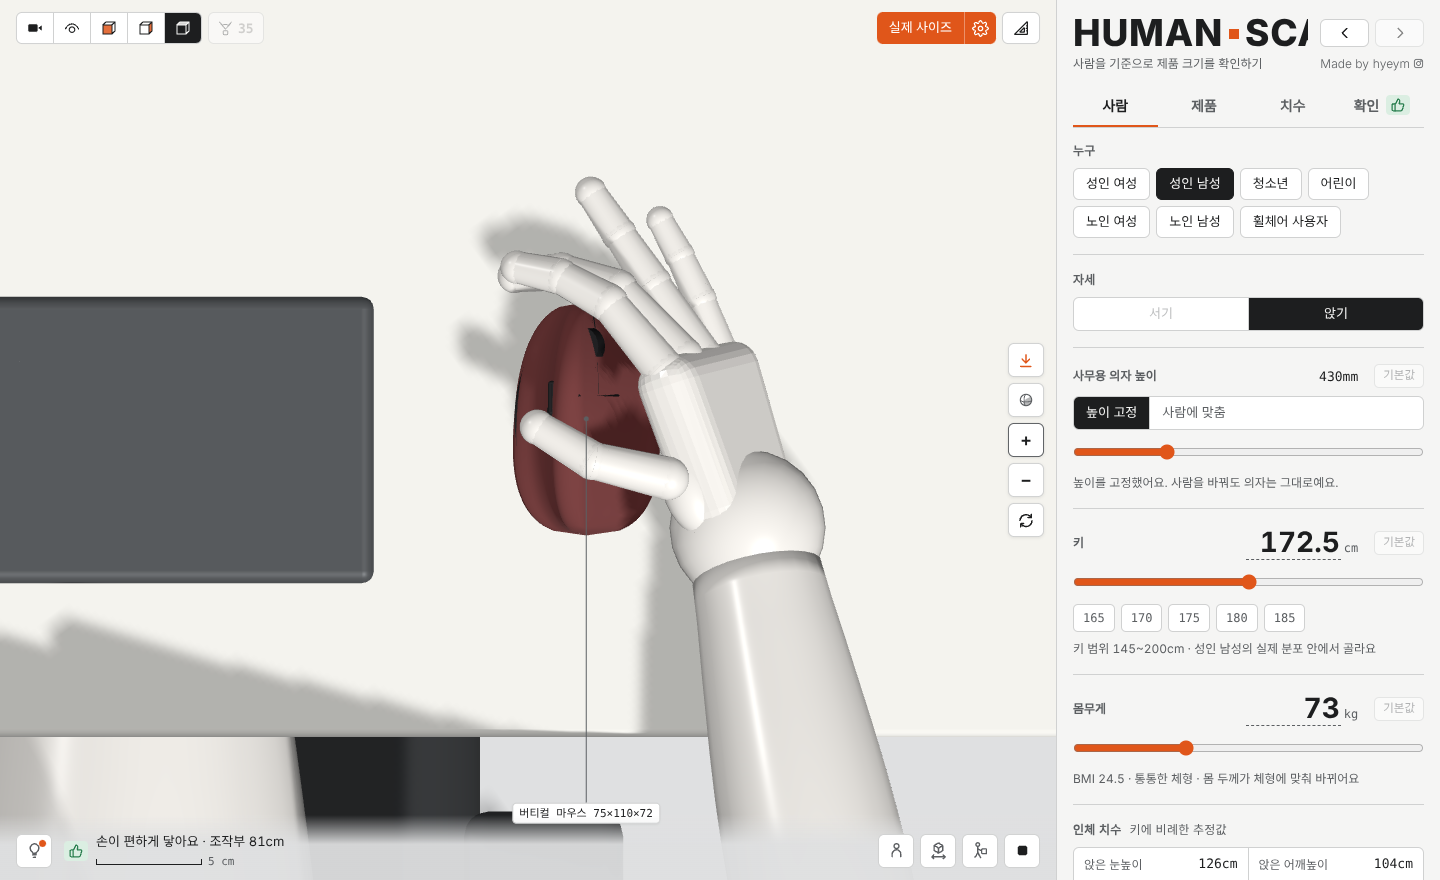
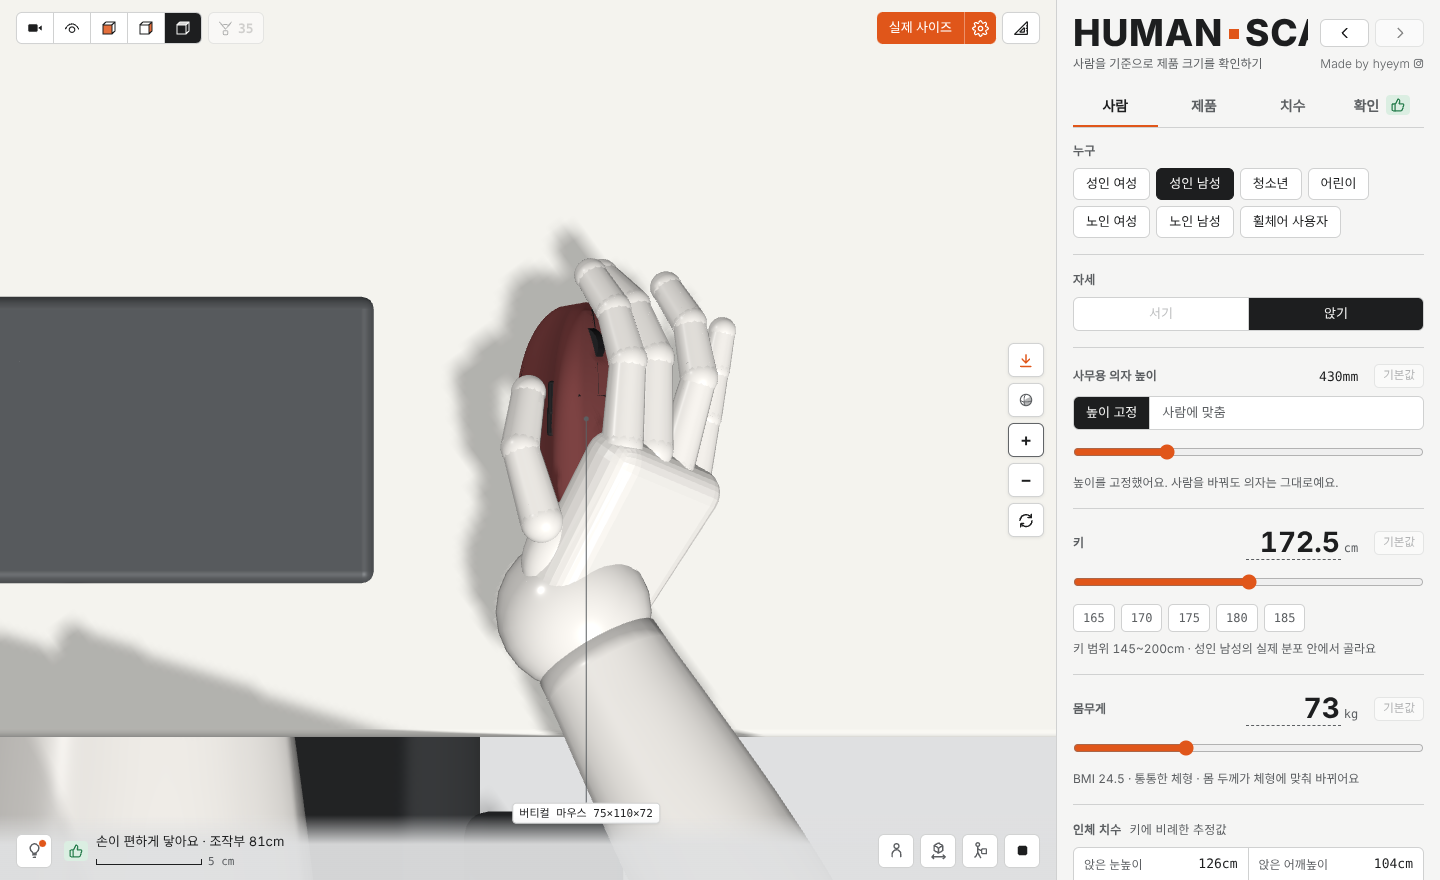
Vertical mouse: the wrist straight behind its ridge, the hand slid on from behind with the mouse in the web
Claude-Session: https://claude.ai/code/session_01HYNQ1d4u3j94KdSMHWKsoz

Changed region(s): [[0.0312, 0.1841, 0.625, 0.9511]]

diff --git a/index.html b/index.html
@@ -4178,7 +4178,7 @@ function vMouseGeo(group, W, D, H, own, dark) {
   for (let k = 0; k < 8; k++) { const t0 = -0.93 + k * 0.09, t1 = t0 + 0.09; if (t1 < tw - 0.06 || t0 > tw + 0.06) seam(sp(0.3, t0), sp(0.3, t1)); } // between the two buttons (broken by the wheel)
   for (let k = 0; k < 6; k++) seam(sp(k / 6 * 0.62, -0.2), sp((k + 1) / 6 * 0.62, -0.2)); // the buttons' back edge, across the face
   for (const [t, l] of [[-0.18, 0.016], [0.02, 0.014]]) { const c = at(-0.235, 0.8, t); own(new RoundedBoxGeometry(0.004, 0.008, l, 2, 0.0015).rotateZ(0.2).translate(c.x, c.y, c.z), dark); } // two thumb buttons high on the left, by the ridge
-  group.userData.vgrip = { n: nrm(-0.4), index: onFace(-0.05, -0.72), knuck: onFace(0.4, -0.4), left: new V3(-1, 0, 0), thumb: at(-0.3, 0.45, -0.35) }; // the hand's marks: the index on the upper button toward the front, the thumb in the hollow on the left
+  group.userData.vgrip = { n: nrm(-0.4), index: onFace(-0.05, -0.72), knuck: onFace(0.45, -0.32), left: new V3(-1, 0, 0), thumb: at(-0.3, 0.45, -0.35) }; // the hand's marks: the index on the upper button toward the front, the thumb in the hollow on the left
   part();
 }
 function mouseGeo(group, W, D, H) {
@@ -5875,13 +5875,17 @@ function mouseGrip(HD) {
   for (const [y, z] of [[0.2, -0.3], [0.3, -0.3], [0.4, -0.3], [0.3, -0.2], [0.3, -0.4]]) palm.push(new V3(0.66 * HD.palmT, y * HD.palmLen, z * HD.palmW)); // the pad at the thumb's root stands proud of the palm
   let F, W, at, best = null;
   const vg = holder.userData.vgrip, toHd = (v) => human.worldToLocal(holder.localToWorld(v.clone())).sub(human.worldToLocal(holder.localToWorld(new V3()))).normalize();
-  if (vg) { /* a vertical mouse, the hand fitted over it: its ridge in the web between the thumb and index finger, the hand rolled partway to the
-     right (the palm over the ridge and down its grip face), the wrist down on the desk behind it */
-    const wy = deskY + jointSizes(limbProfiles(S.A, PERSONAS[S.persona])).wr + 0.002, g0 = HD.fingers[0], lf = toHd(vg.left), nO = toHd(vg.n), ks = human.worldToLocal(holder.localToWorld(vg.knuck.clone())), roll = deg(62), fw = fwd.clone().multiplyScalar(Math.cos(deg(18))).addScaledVector(toHd(vg.left), Math.sin(deg(18)));
-    const kn = new V3(0.5 * HD.palmT, HD.palmLen, g0.z), fit = (h) => { const K = ks.clone().addScaledVector(nO, h); let W1, F1, p0 = -0.3, p1 = 1.2; // pointing straight ahead, pitched up from the wrist on the desk to the knuckles on its ridge
-      for (let k = 0; k < 24; k++) { const p = (p0 + p1) / 2, yd = fw.clone().multiplyScalar(Math.cos(p)).addScaledVector(UP, Math.sin(p)), dn = new V3(0, -1, 0).addScaledVector(yd, yd.y).normalize(), l = lf.clone().addScaledVector(yd, -lf.dot(yd)).normalize(); F1 = handFrame(dn.multiplyScalar(Math.cos(roll)).addScaledVector(l, Math.sin(roll)).normalize(), yd); W1 = K.clone().sub(inHand(F1, kn)); if (W1.y > wy) p0 = p; else p1 = p; }
-      const a = (W) => (x, y, z) => sdfW(W.clone().add(inHand(F1, new V3(x, y, z)))); return { F: F1, W: W1, at: a, m: palm.reduce((m, q) => { const w = W1.clone().add(inHand(F1, q)); return w.y < deskY + 0.006 ? m : Math.min(m, a(W1)(q.x, q.y, q.z)); }, HD.fingers.reduce((m, g) => Math.min(m, a(W1)(0, g.y + 0.35 * g.L[0], g.z) - g.r[0] + 0.0015), 1e9)) }; }; // the fingers' roots kept off it too, so they can curl round it // the heel of the hand may lie on the desk
-    let lo = -0.01, hi = 0.05, r = fit(hi); for (let k = 0; k < 16; k++) { const h = (lo + hi) / 2, c = fit(h); if (c.m < 0.0015) lo = h; else { hi = h; r = c; } } // as close down on it as the palm comes without going in
+  if (vg) { /* a vertical mouse, the hand fitted round it from behind: the wrist on the desk straight behind its ridge (the forearm, wrist and
+     ridge in one line seen from above), the hand rolled partway to the right, so the ridge sits in the web between the thumb and the index
+     finger, the palm round its grip face and the thumb down its left */
+    const wy = deskY + jointSizes(limbProfiles(S.A, PERSONAS[S.persona])).wr + 0.002, lf = toHd(vg.left), roll = deg(50), fw = fwd, hp0 = human.worldToLocal(holder.localToWorld(holder.userData.hump.clone()));
+    const lat = new V3().crossVectors(UP, fw).normalize(), base = hp0.clone().addScaledVector(fw, -fw.dot(hp0.clone().sub(ctr)) - 0.5 * len - 0.12); base.y = wy;
+    const frame = (p, ps) => { const fy = fw.clone().multiplyScalar(Math.cos(ps)).addScaledVector(lat, -Math.sign(lat.dot(lf)) * Math.sin(ps)), yd = fy.multiplyScalar(Math.cos(p)).addScaledVector(UP, Math.sin(p)), dn = new V3(0, -1, 0).addScaledVector(yd, yd.y).normalize(), l = lf.clone().addScaledVector(yd, -lf.dot(yd)).normalize(); return handFrame(dn.multiplyScalar(Math.cos(roll)).addScaledVector(l, Math.sin(roll)).normalize(), yd); };
+    const gap = (F1, W1) => { const a = (x, y, z) => sdfW(W1.clone().add(inHand(F1, new V3(x, y, z)))); let m = HD.fingers.reduce((m, g) => Math.min(m, a(0, g.y + 0.35 * g.L[0], g.z) - g.r[0] + 0.0015), 1e9), sc = 0; for (const q of palm) { const w = W1.clone().add(inHand(F1, q)); if (w.y < deskY + 0.006) continue; const e = a(q.x, q.y, q.z); m = Math.min(m, e); sc += Math.min(e, 0.03); } return { m, sc }; };
+    let r = null;
+    for (let ps = 0; ps <= deg(30.1); ps += deg(5)) for (let p = -0.1; p <= 0.61; p += 0.05) { const F1 = frame(p, ps); let a = 0; // turned a little out at the wrist, slid in from behind as far as it goes onto it
+      for (; a < 0.25; a += 0.004) if (gap(F1, base.clone().addScaledVector(fw, a + 0.004)).m < 0.0015) break;
+      const W1 = base.clone().addScaledVector(fw, a), g = gap(F1, W1), sc = -a + 0.15 * g.sc + 0.02 * ps; if (!r || sc < r.sc) r = { sc, F: F1, W: W1, at: (W) => (x, y, z) => sdfW(W.clone().add(inHand(F1, new V3(x, y, z)))) }; }
     F = r.F; W = r.W; at = r.at;
   } else for (let tl = -0.25; tl <= 0.401; tl += 0.05) { // the palm tilted as it best lies along the shell: settled down onto it, then the tilt with it closest all over
     const F1 = handFrame(new V3(0, -1, 0), fwd.clone().addScaledVector(UP, tl)), at1 = (W) => (x, y, z) => sdfW(W.clone().add(inHand(F1, new V3(x, y, z))));
